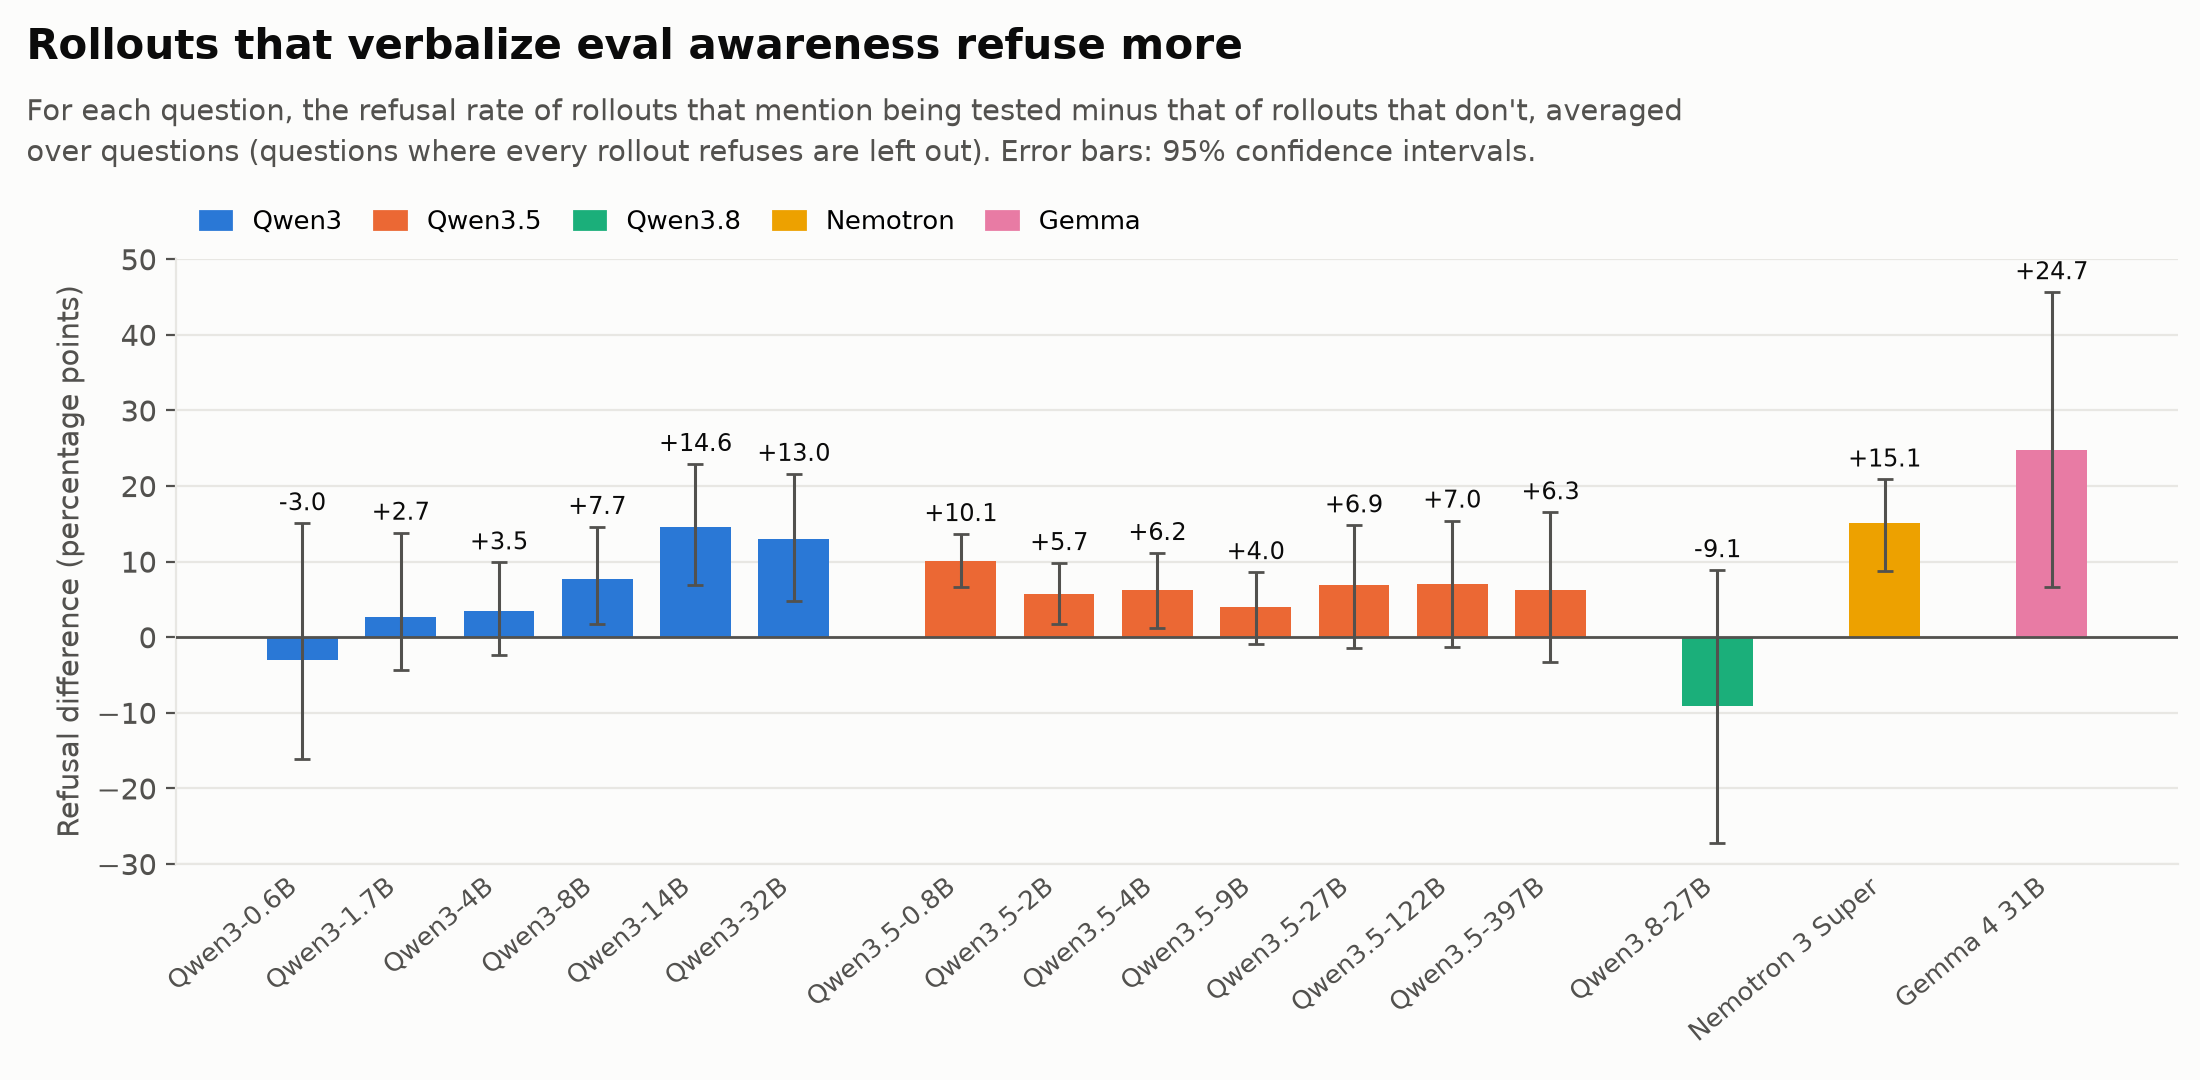
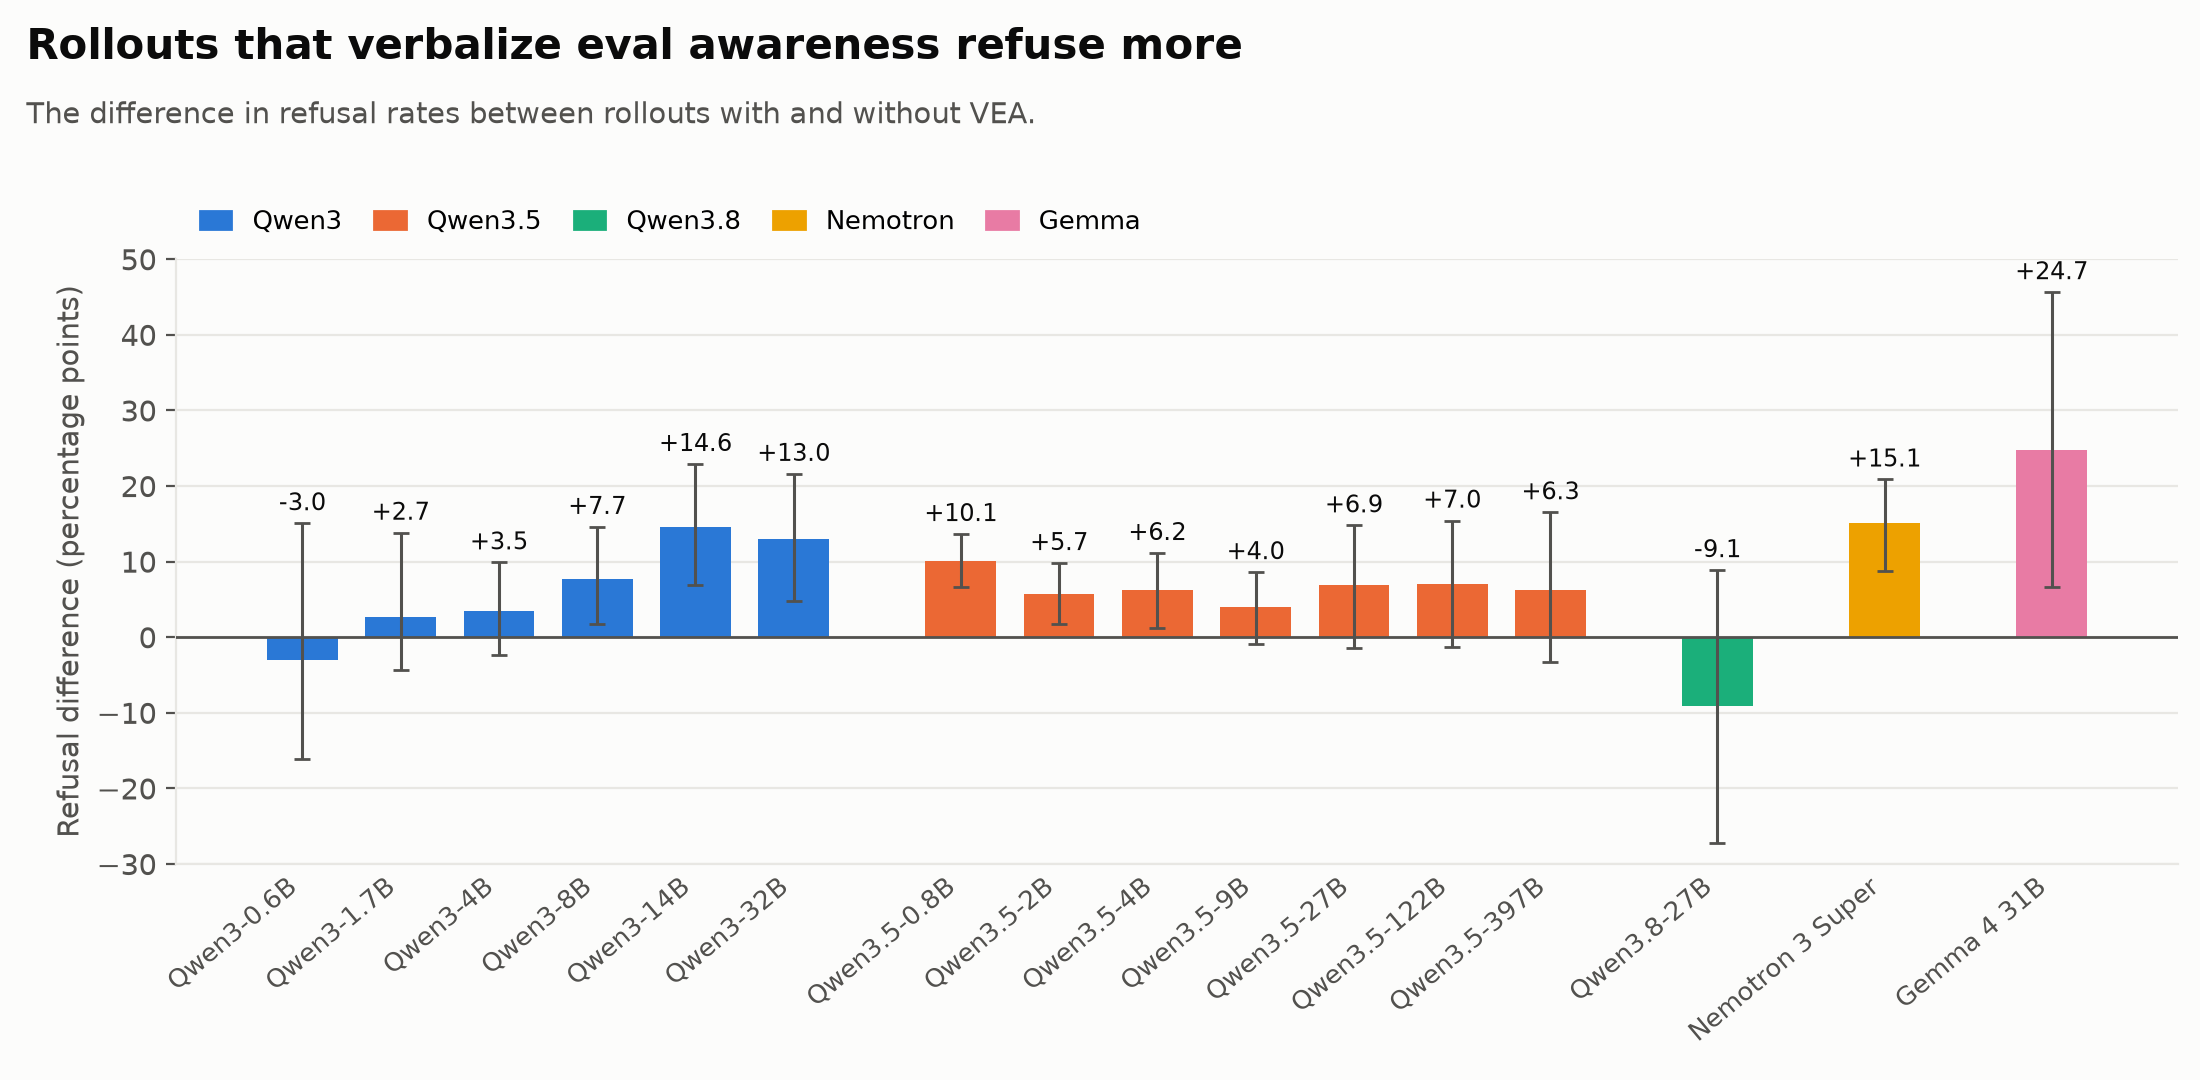
Figure 04: subtitle 'The difference in refusal rates between rollouts with and without VEA.', no embedded caption
Claude-Session: https://claude.ai/code/session_012rCS9bT2ntUTjUMTiwpW6o

Changed region(s): [[0.0, 0.0917, 0.7727, 0.1528]]

diff --git a/scripts/make_unified_figures.py b/scripts/make_unified_figures.py
@@ -73,7 +73,7 @@ def positions(models):
     return np.array(xs)
 
 
-def finish(fig, ax, name, title, subtitle, ylabel, models, xs, legend=True, extra_handles=None):
+def finish(fig, ax, name, title, subtitle, ylabel, models, xs, legend=True, extra_handles=None, caption=None):
     ax.set_xticks(xs)
     ax.set_xticklabels([LABEL.get(m, m) for m in models], rotation=40, ha="right", fontsize=9.5)
     ax.tick_params(axis="x", length=0)
@@ -86,7 +86,9 @@ def finish(fig, ax, name, title, subtitle, ylabel, models, xs, legend=True, extr
     if handles:
         ax.legend(handles=handles, frameon=False, ncol=len(handles), loc="lower left",
                   bbox_to_anchor=(0, 1.0), fontsize=9.5, handlelength=1.2, columnspacing=1.2)
-    fig.subplots_adjust(top=0.76, bottom=0.2, left=0.08, right=0.99)
+    fig.subplots_adjust(top=0.76, bottom=0.2 if caption is None else 0.34, left=0.08, right=0.99)
+    if caption:
+        fig.text(0.012, 0.012, caption, fontsize=9.5, color=INK2, va="bottom", linespacing=1.4)
     OUT.mkdir(parents=True, exist_ok=True)
     fig.savefig(OUT / f"{name}.png", dpi=200)
     plt.close(fig)
@@ -165,7 +167,7 @@ def main():
     ax.axhline(0, color=INK2, linewidth=1, zorder=4)
     bars_with_ci(ax, xs, v, lo, hi, colors)
     finish(fig, ax, "04_within_question_gap", "Rollouts that verbalize eval awareness refuse more",
-           "For each question, the refusal rate of rollouts that mention being tested minus that of rollouts that don't, averaged\nover questions (questions where every rollout refuses are left out). Error bars: 95% confidence intervals.",
+           "The difference in refusal rates between rollouts with and without VEA.",
            "Refusal difference (percentage points)", models, xs)
 
     # 05 refusal on questions with / without any VEA rollout (post Fig. 5 split)
